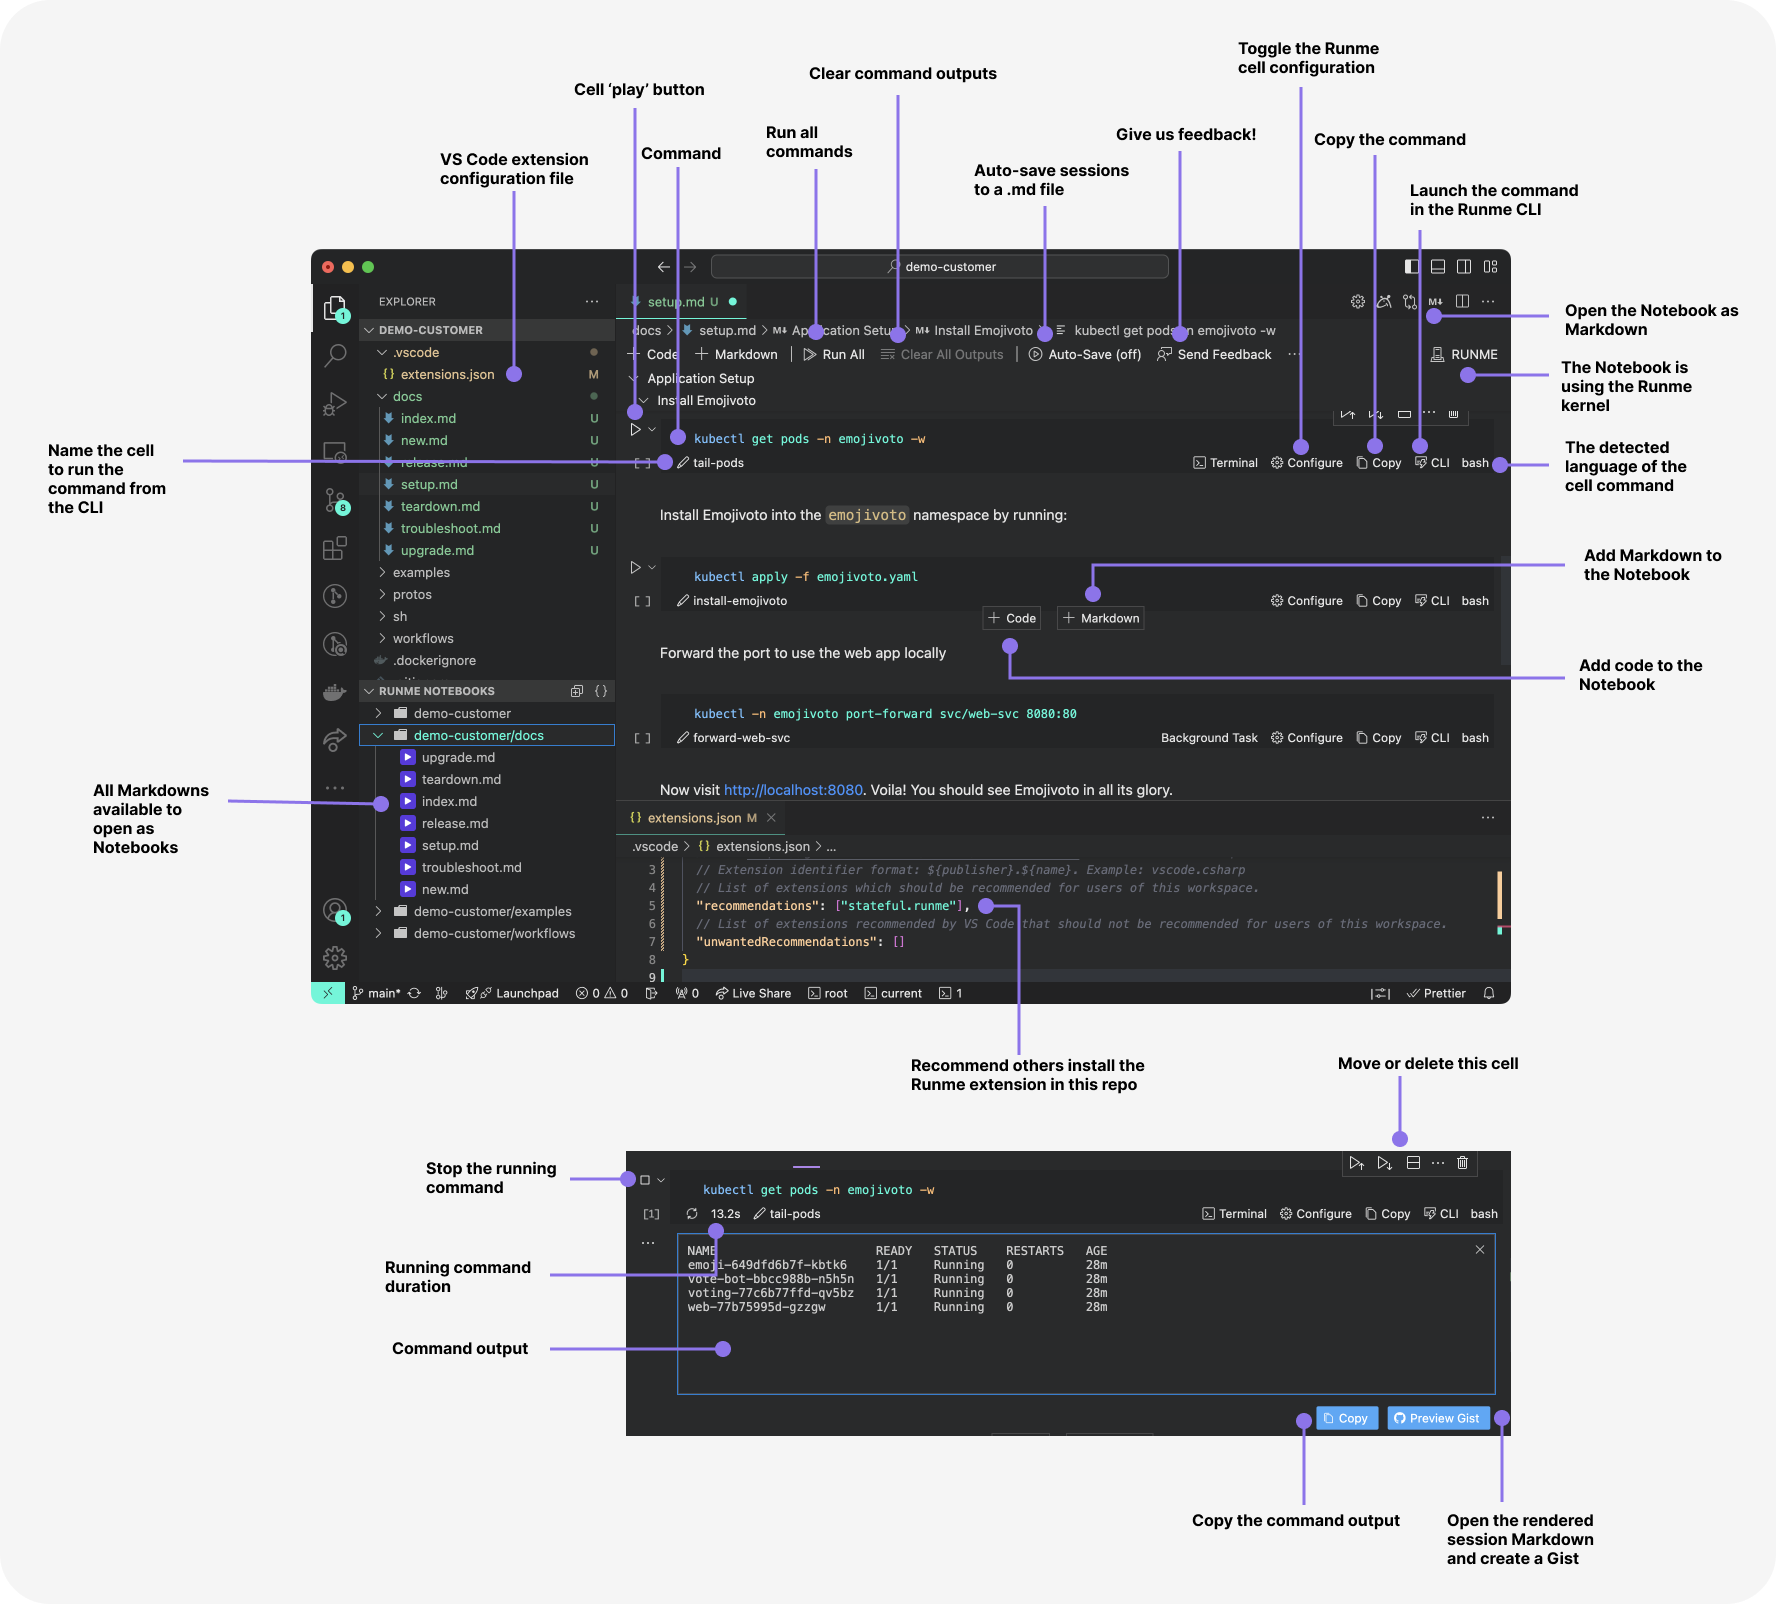
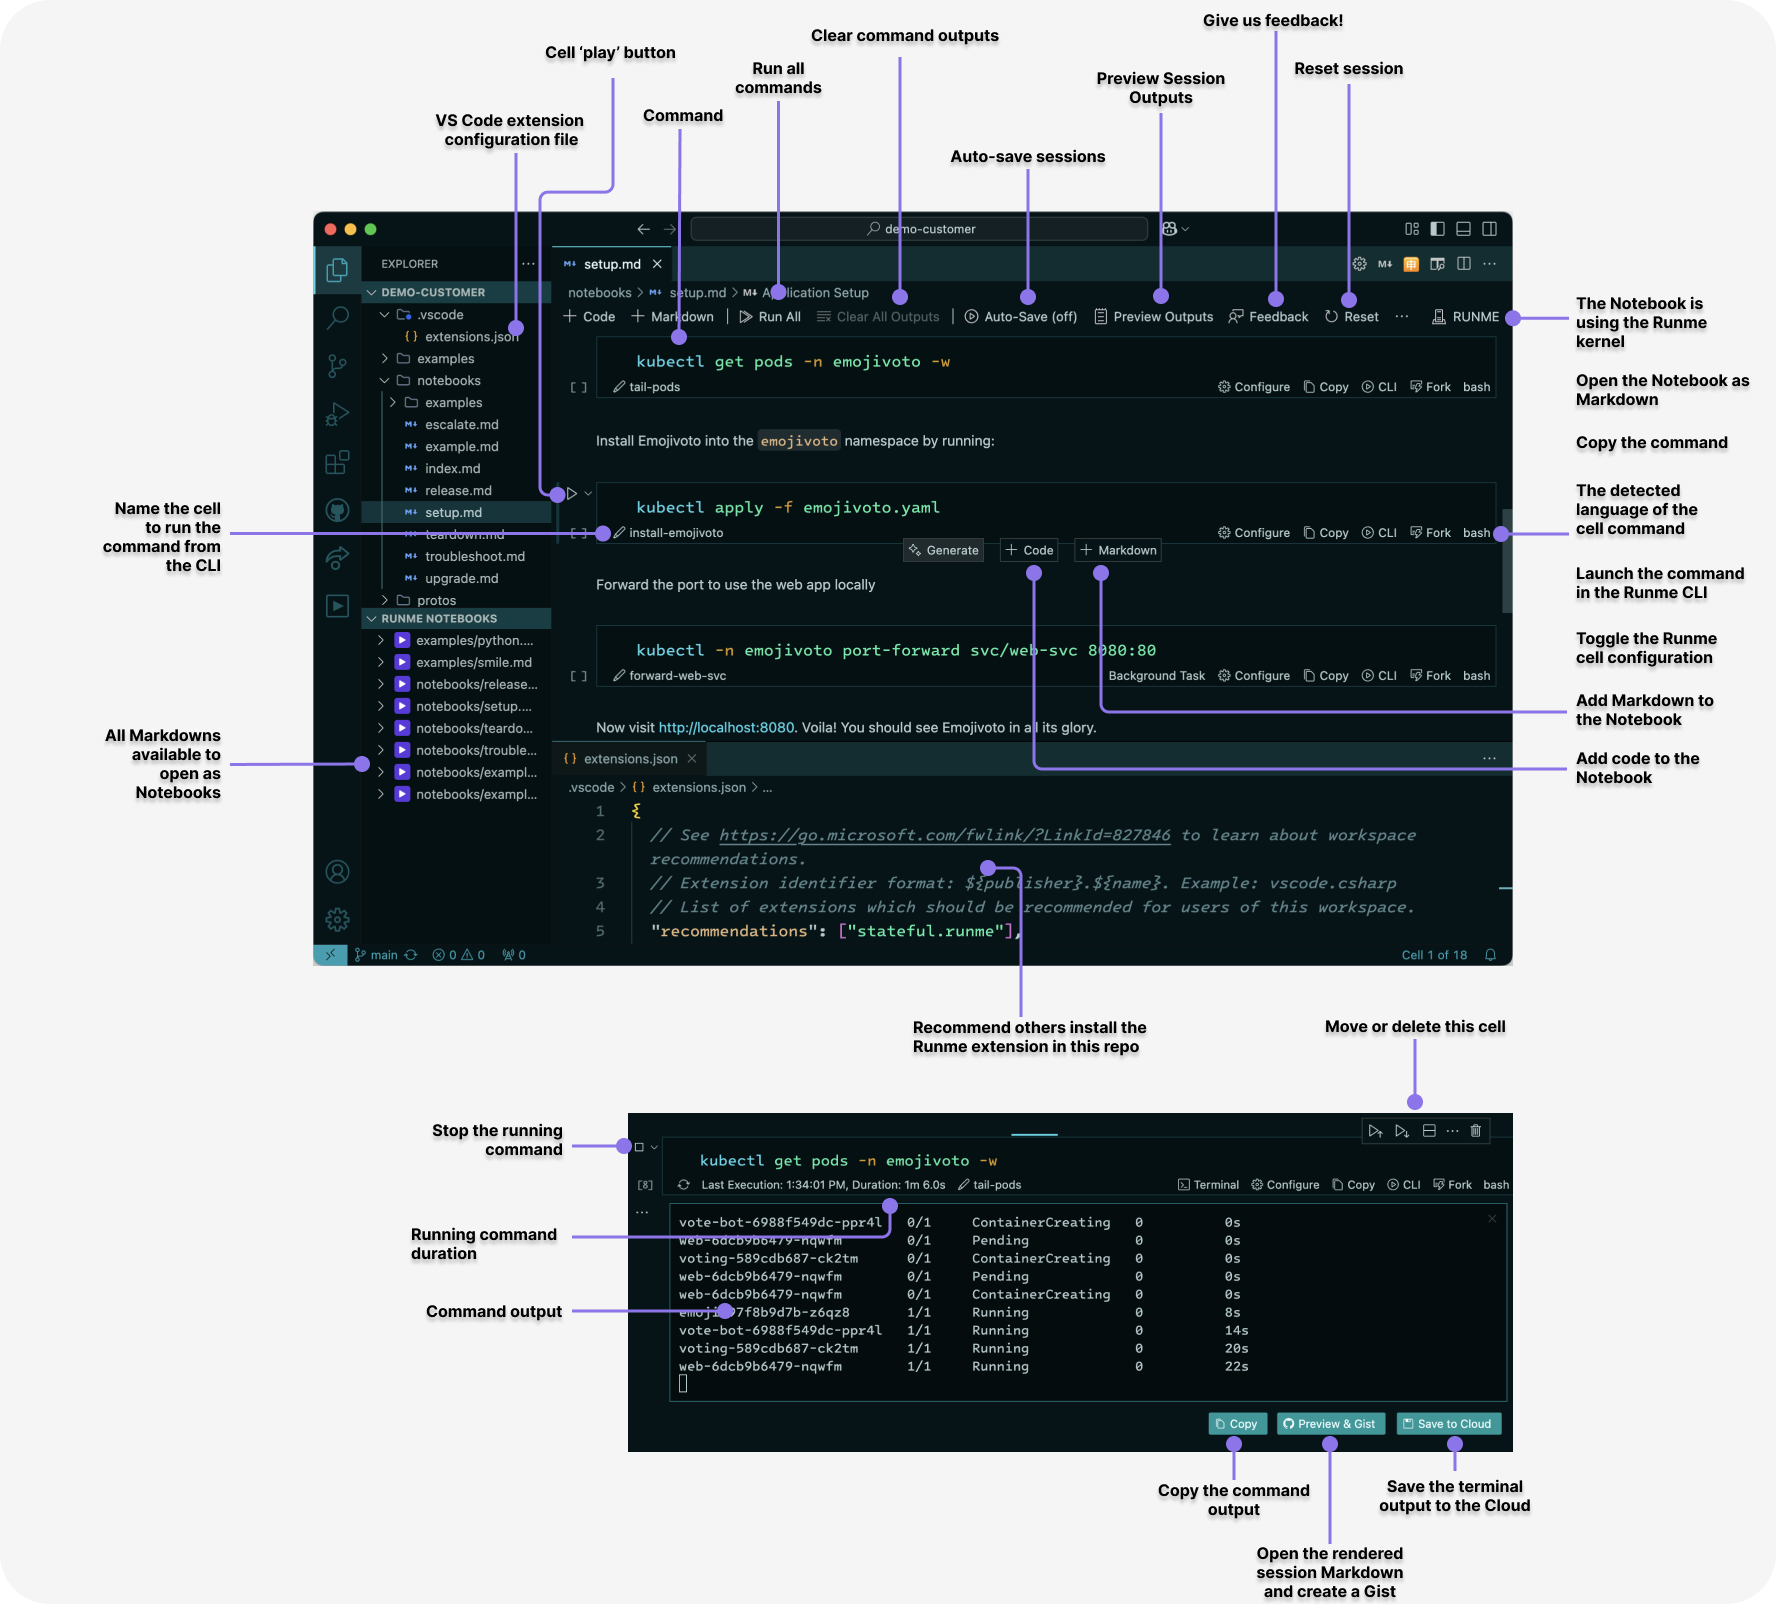
Update notebooks panel docs (#533)
* Update notebooks panel docs

* Adds first video

* Adds more gifs

* Updates Extension UX screenshots

diff --git a/docs/getting-started/vscode.md b/docs/getting-started/vscode.md
@@ -203,9 +203,17 @@ Sometimes, you will want to see the file as a regular Markdown file, and you don
 
 ### Notebook Explorer
 
-To help you navigate the Markdown files in your project, Runme adds a super handy `Runme Notebooks` panel. Clicking any Markdown file will open it in your code editor view:
+To help you navigate the Markdown files in your project, Runme adds a super handy `Runme Notebooks` panel. It allows you to open and run cells quickly:
 
-![notebook explorer](/img/runme-noteboooks.png)
+![notebook explorer](/img/runme-notebooks.png)
+
+Include or Exclude unnamed cells
+
+![notebook explorer - Include / Exclude](/videos/runme-notebooks-1.gif)
+
+Open and Run cells
+
+![notebook explorer - Open and Run](/videos/runme-notebooks-2.gif)
 
 ## Next Steps
 
